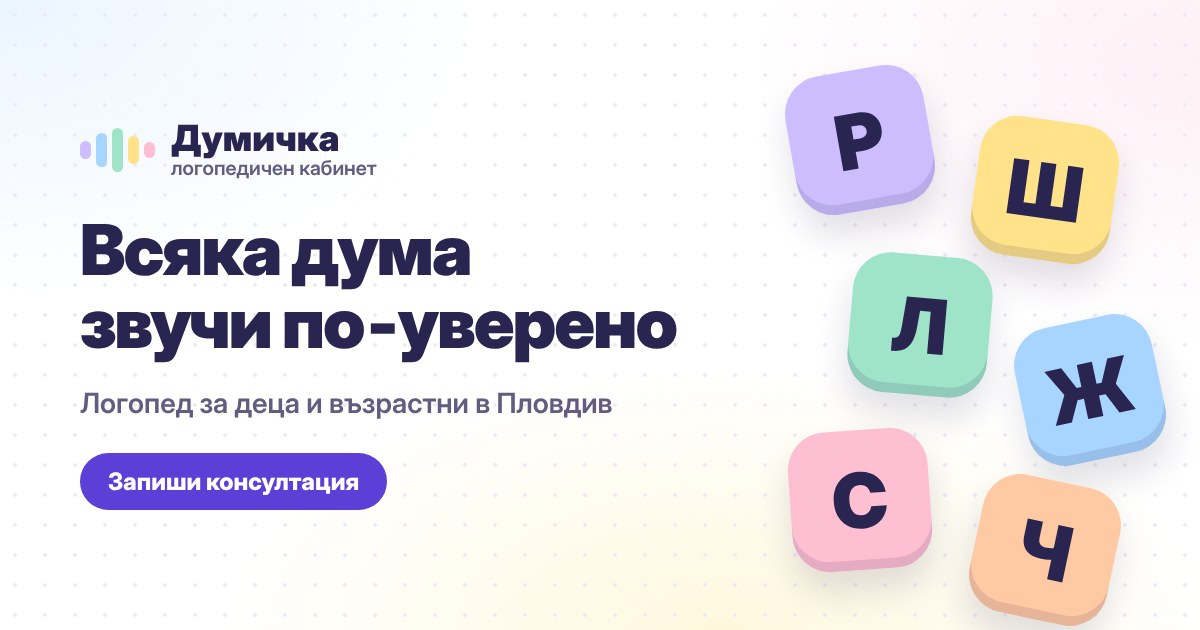
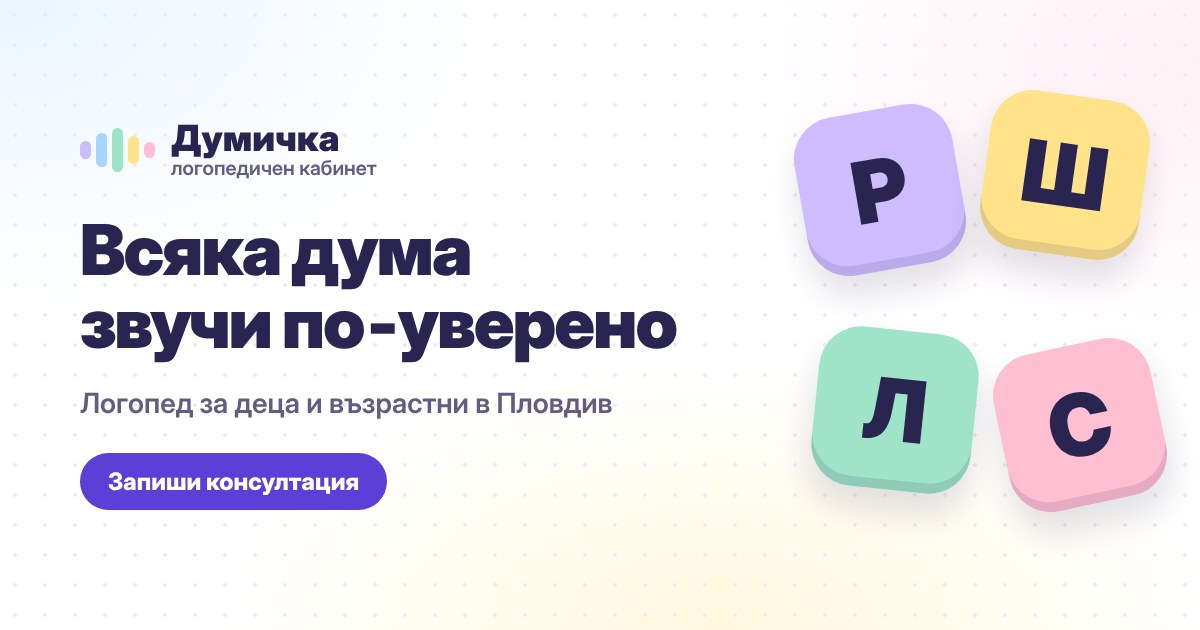
Картинка за споделяне: само буквите Р, Ш, Л, С
Claude-Session: https://claude.ai/code/session_01C8iUzTjQwhouTwbX9oPjjR

Changed region(s): [[0.6475, 0.0905, 0.9867, 1.0]]

diff --git a/index.html b/index.html
@@ -9,12 +9,12 @@
 <meta property="og:url" content="https://logoped.velkow.workers.dev/">
 <meta property="og:title" content="Логопедичен кабинет „Думичка“ – демо">
 <meta property="og:description" content="Логопедична терапия за деца и възрастни в Пловдив. Консултации, оценка на говора, индивидуални занимания.">
-<meta property="og:image" content="https://logoped.velkow.workers.dev/og.jpg?v=2">
+<meta property="og:image" content="https://logoped.velkow.workers.dev/og.jpg?v=3">
 <meta property="og:image:width" content="1200">
 <meta property="og:image:height" content="630">
 <meta property="og:locale" content="bg_BG">
 <meta name="twitter:card" content="summary_large_image">
-<meta name="twitter:image" content="https://logoped.velkow.workers.dev/og.jpg?v=2">
+<meta name="twitter:image" content="https://logoped.velkow.workers.dev/og.jpg?v=3">
 <meta name="theme-color" content="#5b3fd6">
 <link rel="preconnect" href="https://fonts.googleapis.com">
 <link rel="preconnect" href="https://fonts.gstatic.com" crossorigin>
